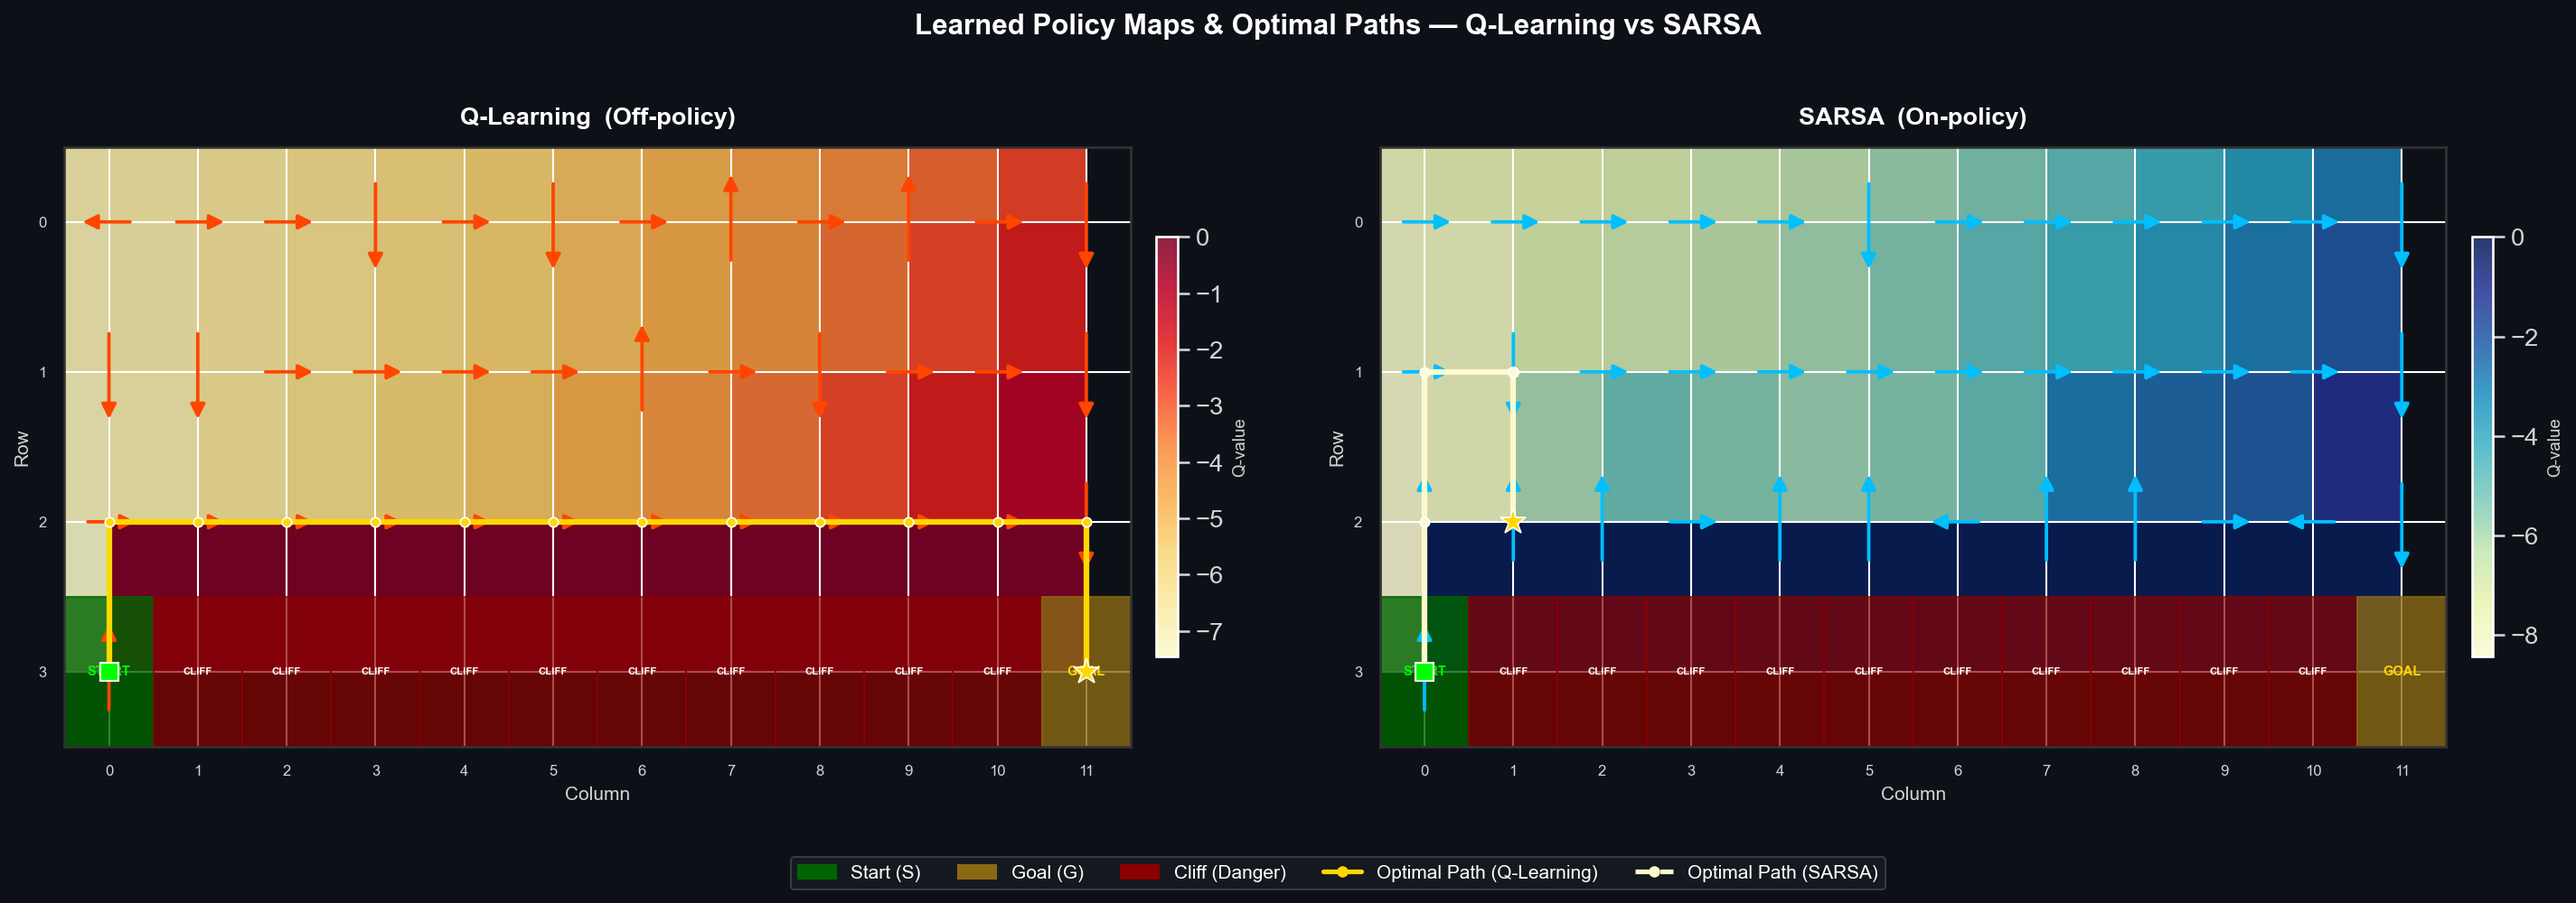
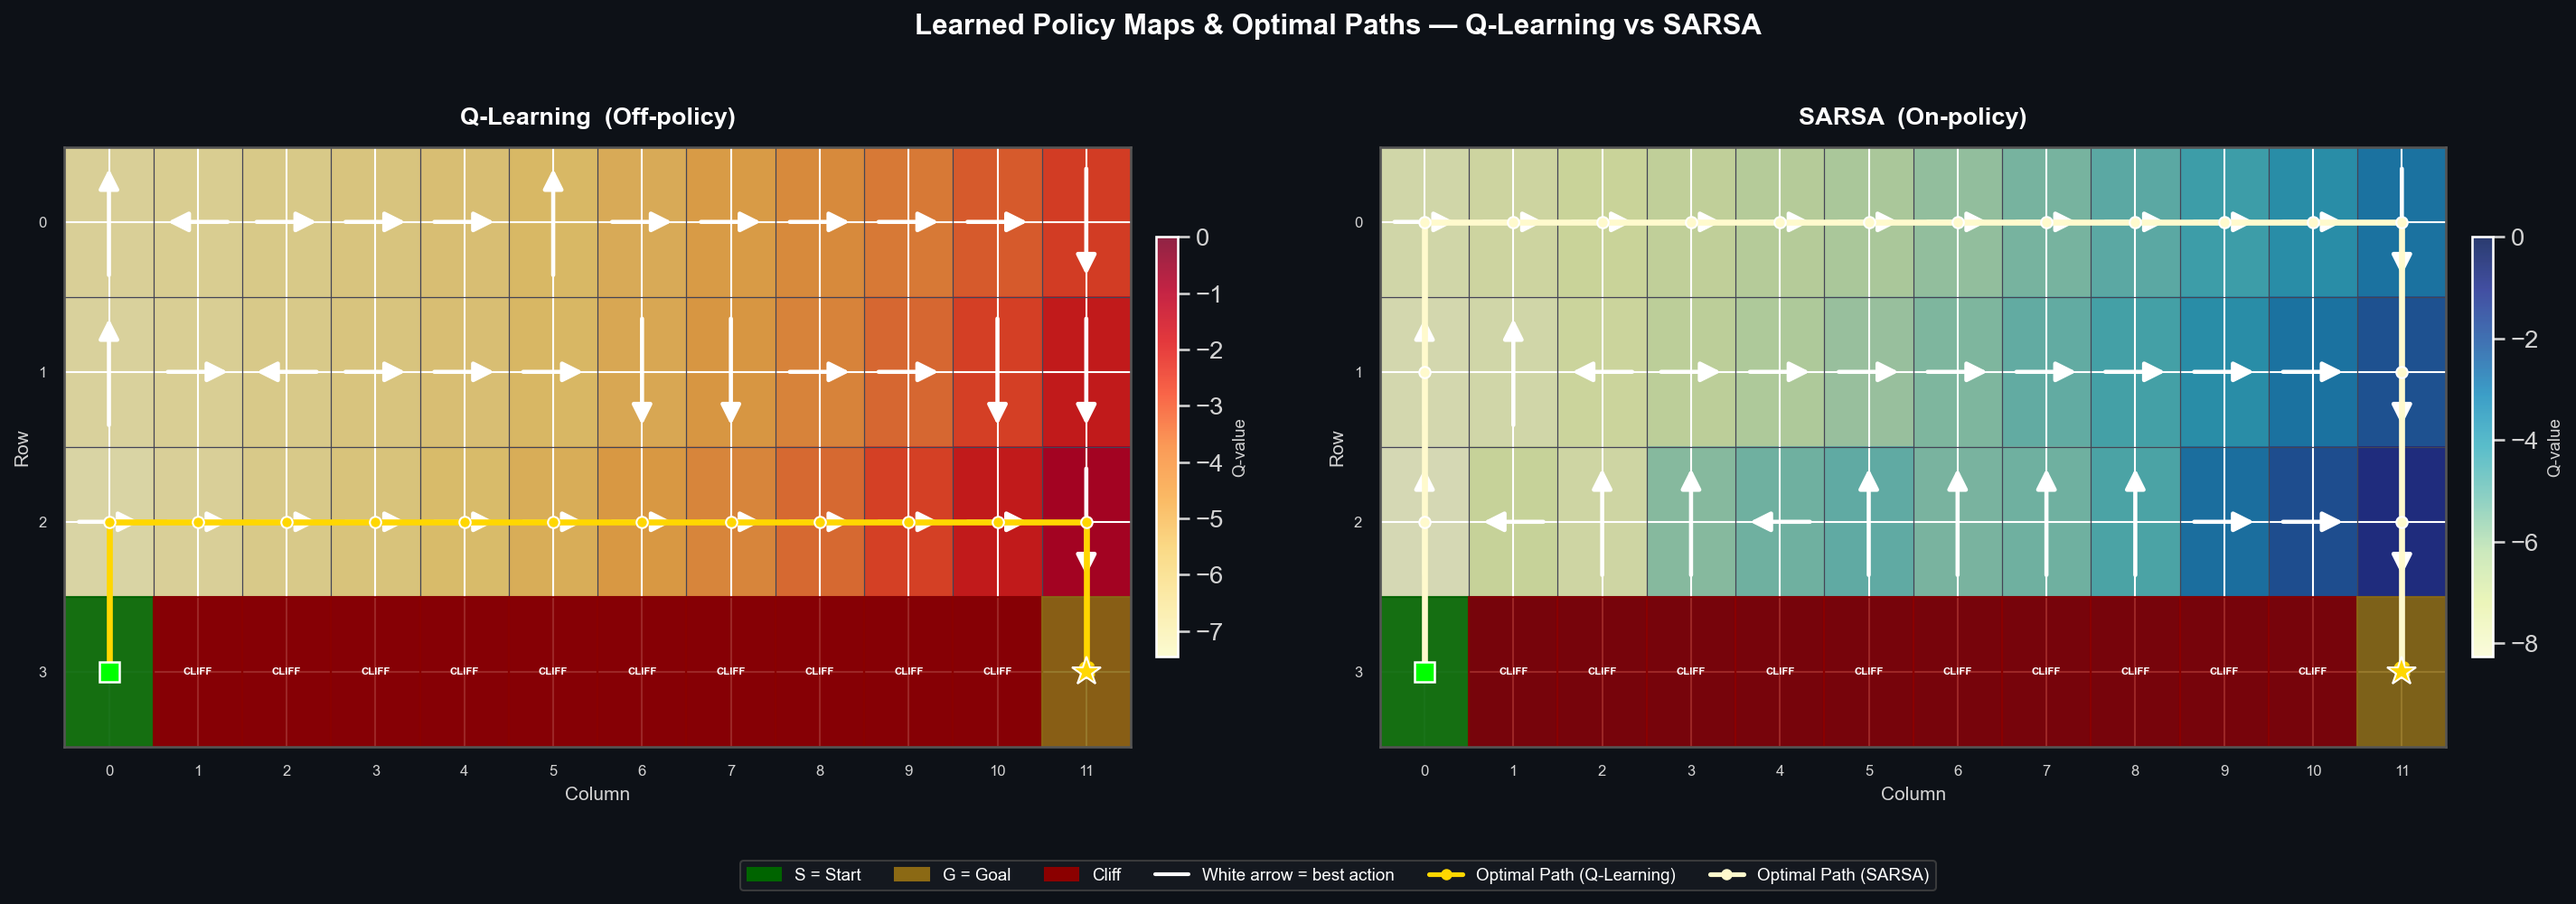
fix: SARSA cyan color, white centered arrows via imshow extent, verified optimal paths reach G

diff --git a/main.py b/main.py
@@ -36,10 +36,10 @@ STYLE_PATH = "style.png"
 # ─────────────────────────────────────────────
 sns.set_theme(style="darkgrid", palette="muted", font_scale=1.2)
 COLORS = {
-    "qlearning": "#E94560",   # vivid red-pink
-    "sarsa":     "#0F3460",   # deep navy blue
-    "smooth_q":  "#FF8A80",
-    "smooth_s":  "#82B1FF",
+    "qlearning": "#FF4444",   # vivid red
+    "sarsa":     "#00E5FF",   # electric cyan — visible on dark background
+    "smooth_q":  "#FF4444",
+    "smooth_s":  "#00E5FF",
 }
 
 
@@ -159,8 +159,12 @@ def extract_policy_data(agent, env):
     return q_vals, U, V
 
 
-def get_optimal_path(agent, env, max_steps=200):
-    """Greedy rollout from start to goal, returns list of (row, col)."""
+def get_optimal_path(agent, env, max_steps=500):
+    """
+    Greedy rollout from start to goal.
+    Returns list of (row, col) ONLY if the path actually reaches Goal.
+    Returns None if the agent loops or falls off cliff without reaching Goal.
+    """
     env_copy = CliffWalkingEnv()
     state_idx = env_copy.reset()
     path = [env_copy.state]
@@ -169,8 +173,12 @@ def get_optimal_path(agent, env, max_steps=200):
         state_idx, _, done = env_copy.step(best_a)
         path.append(env_copy.state)
         if done:
-            break
-    return path
+            # Only return path if we actually reached the goal (not reset to start)
+            if env_copy.state == env_copy.goal:
+                return path
+            else:
+                return None  # fell into cliff, path invalid
+    return None  # timed out — never reached goal
 
 
 def plot_policy_style(q_agent, s_agent, env, save_path):
@@ -189,79 +197,84 @@ def plot_policy_style(q_agent, s_agent, env, save_path):
     fig.patch.set_facecolor('#0D1117')
 
     for ax, cfg in zip(axes, AGENT_CFG):
-        agent     = cfg["agent"]
+        agent = cfg["agent"]
         q_vals, U, V = extract_policy_data(agent, env)
 
-        # ── Background heatmap ──
+        # ── Background heatmap: use extent so cell(r,c) is centered at (c+0.5, r+0.5) ──
         im = ax.imshow(q_vals, cmap=cfg["cmap"], aspect='auto',
-                       interpolation='nearest', alpha=0.85)
+                       interpolation='nearest', alpha=0.85,
+                       extent=[0, cols, rows, 0])  # left, right, bottom, top
         cbar = fig.colorbar(im, ax=ax, shrink=0.7, pad=0.02)
         cbar.ax.yaxis.set_tick_params(color='lightgray')
         plt.setp(cbar.ax.yaxis.get_ticklabels(), color='lightgray')
         cbar.set_label('Q-value', color='lightgray', fontsize=9)
 
-        # ── Grid lines ──
-        ax.set_xticks(np.arange(-0.5, cols, 1), minor=True)
-        ax.set_yticks(np.arange(-0.5, rows, 1), minor=True)
-        ax.grid(which='minor', color='#333344', linewidth=0.6)
-        ax.tick_params(which='minor', length=0)
+        # ── Grid lines (at integer boundaries, cells are 0~1, 1~2, etc.) ──
+        for x in range(cols + 1):
+            ax.axvline(x, color='#444455', linewidth=0.6, zorder=1)
+        for y in range(rows + 1):
+            ax.axhline(y, color='#444455', linewidth=0.6, zorder=1)
 
-        # ── Quiver arrows (skip cliff & goal) ──
+        # ── WHITE thick arrows centered in each cell (skip cliff & goal & start) ──
         for r in range(rows):
             for c in range(cols):
                 pos = (r, c)
-                if pos in env.cliff or pos == env.goal:
+                if pos in env.cliff or pos == env.goal or pos == env.start:
                     continue
+                cx, cy = c + 0.5, r + 0.5   # cell center
+                dx, dy = U[r, c] * 0.38, -V[r, c] * 0.38  # arrow tip offset
                 ax.annotate("",
-                    xy=(c + 0.5 + U[r, c] * 0.34, r + 0.5 - V[r, c] * 0.34),
-                    xytext=(c + 0.5 - U[r, c] * 0.28, r + 0.5 + V[r, c] * 0.28),
+                    xy=(cx + dx, cy + dy),
+                    xytext=(cx - dx, cy - dy),
                     arrowprops=dict(
                         arrowstyle="-|>",
-                        color=cfg["arrow_color"],
-                        lw=1.8,
-                        mutation_scale=16,
-                    )
+                        color="white",
+                        lw=2.2,
+                        mutation_scale=22,
+                    ),
+                    zorder=4
                 )
 
-        # ── Special cell labels ──
+        # ── Special cell overlays ──
         for r in range(rows):
             for c in range(cols):
                 pos = (r, c)
                 if pos in env.cliff:
                     ax.add_patch(plt.Rectangle((c, r), 1, 1,
-                                               color='#8B0000', alpha=0.7, zorder=2))
+                                               color='#8B0000', alpha=0.85, zorder=2))
                     ax.text(c + 0.5, r + 0.5, 'CLIFF', ha='center', va='center',
                             fontsize=5.5, fontweight='bold', color='white', zorder=3)
                 elif pos == env.start:
                     ax.add_patch(plt.Rectangle((c, r), 1, 1,
-                                               color='#006400', alpha=0.8, zorder=2))
-                    ax.text(c + 0.5, r + 0.5, 'START', ha='center', va='center',
-                            fontsize=7, fontweight='bold', color='lime', zorder=3)
+                                               color='#006400', alpha=0.9, zorder=2))
+                    ax.text(c + 0.5, r + 0.5, 'S', ha='center', va='center',
+                            fontsize=13, fontweight='bold', color='lime', zorder=3)
                 elif pos == env.goal:
                     ax.add_patch(plt.Rectangle((c, r), 1, 1,
-                                               color='#8B6914', alpha=0.8, zorder=2))
-                    ax.text(c + 0.5, r + 0.5, 'GOAL', ha='center', va='center',
-                            fontsize=7, fontweight='bold', color='gold', zorder=3)
+                                               color='#8B6914', alpha=0.9, zorder=2))
+                    ax.text(c + 0.5, r + 0.5, 'G', ha='center', va='center',
+                            fontsize=13, fontweight='bold', color='gold', zorder=3)
 
-        # ── Optimal path overlay ──
+        # ── Optimal path overlay (only if path actually reaches Goal) ──
         opt_path = get_optimal_path(agent, env)
-        if len(opt_path) > 1:
+        if opt_path is not None:
             path_cols = [p[1] + 0.5 for p in opt_path]
             path_rows = [p[0] + 0.5 for p in opt_path]
             ax.plot(path_cols, path_rows,
-                    color=cfg["path_color"], linewidth=3.0, zorder=5,
-                    marker='o', markersize=5, markerfacecolor=cfg["path_color"],
-                    markeredgecolor='white', markeredgewidth=0.8,
-                    label='Optimal Path')
-            # Mark Start & Goal on path
+                    color=cfg["path_color"], linewidth=3.2, zorder=6,
+                    marker='o', markersize=6, markerfacecolor=cfg["path_color"],
+                    markeredgecolor='white', markeredgewidth=1.0)
             ax.plot(path_cols[0],  path_rows[0],  's', color='lime',
-                    markersize=10, zorder=6, markeredgecolor='white', markeredgewidth=1)
+                    markersize=11, zorder=7, markeredgecolor='white', markeredgewidth=1.2)
             ax.plot(path_cols[-1], path_rows[-1], '*', color='gold',
-                    markersize=14, zorder=6, markeredgecolor='white', markeredgewidth=0.8)
+                    markersize=16, zorder=7, markeredgecolor='white', markeredgewidth=1.0)
+            print(f"    [{cfg['title'].split('(')[0].strip()}] Optimal path length: {len(opt_path)} steps")
+        else:
+            print(f"    [{cfg['title'].split('(')[0].strip()}] WARNING: optimal path did not reach Goal — skipping overlay")
 
         # ── Axes style ──
         ax.set_xlim(0, cols)
-        ax.set_ylim(rows, 0)   # top-left origin matches grid
+        ax.set_ylim(rows, 0)
         ax.set_xticks(np.arange(0.5, cols, 1))
         ax.set_yticks(np.arange(0.5, rows, 1))
         ax.set_xticklabels(range(cols), color='lightgray', fontsize=8)
@@ -270,20 +283,21 @@ def plot_policy_style(q_agent, s_agent, env, save_path):
         ax.set_xlabel("Column", color='lightgray', fontsize=10)
         ax.set_ylabel("Row",    color='lightgray', fontsize=10)
         ax.set_facecolor('#0D1117')
-        ax.spines[:].set_color('#333')
+        ax.spines[:].set_color('#555')
 
     # ── Shared legend ──
     legend_elements = [
-        mpatches.Patch(color='#006400', label='Start (S)'),
-        mpatches.Patch(color='#8B6914', label='Goal (G)'),
-        mpatches.Patch(color='#8B0000', label='Cliff (Danger)'),
+        mpatches.Patch(color='#006400', label='S = Start'),
+        mpatches.Patch(color='#8B6914', label='G = Goal'),
+        mpatches.Patch(color='#8B0000', label='Cliff'),
+        plt.Line2D([0], [0], color='white', lw=2, label='White arrow = best action'),
         plt.Line2D([0], [0], color='#FFD700', lw=2.5, marker='o', markersize=5,
                    label='Optimal Path (Q-Learning)'),
         plt.Line2D([0], [0], color='#FFFACD', lw=2.5, marker='o', markersize=5,
-                   linestyle='--', label='Optimal Path (SARSA)'),
+                   label='Optimal Path (SARSA)'),
     ]
-    fig.legend(handles=legend_elements, loc='lower center', ncol=5,
-               facecolor='#161B22', edgecolor='#444', labelcolor='white', fontsize=10,
+    fig.legend(handles=legend_elements, loc='lower center', ncol=6,
+               facecolor='#161B22', edgecolor='#444', labelcolor='white', fontsize=9,
                bbox_to_anchor=(0.5, -0.08))
 
     fig.suptitle("Learned Policy Maps & Optimal Paths — Q-Learning vs SARSA",
